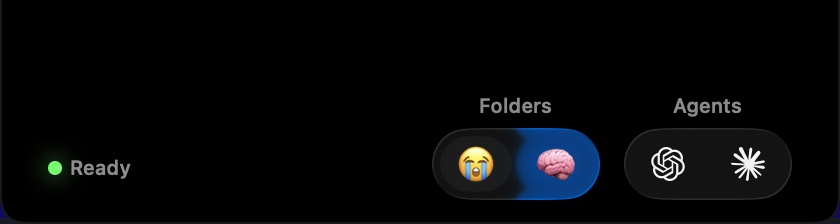
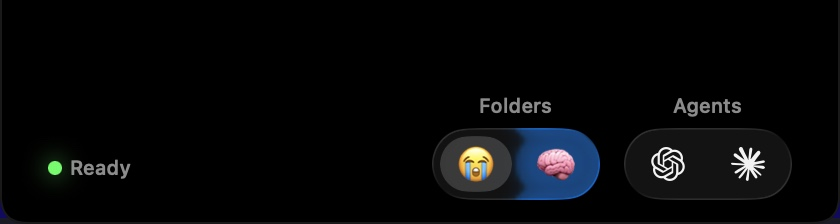
feat: brighten glass selection and hover

Changed region(s): [[0.5262, 0.5938, 0.619, 0.875]]

diff --git a/GhostNotch/UI/IslandIndicatorView.swift b/GhostNotch/UI/IslandIndicatorView.swift
@@ -199,14 +199,18 @@ struct IslandIndicatorView: View {
         if usesOpaqueGlass {
             Color.clear
                 .glassEffect(
-                    .regular.tint(Color(nsColor: .systemBlue)),
+                    .regular.tint(directorySelectionColor),
                     in: Capsule()
                 )
                 .clipShape(Capsule())
         } else {
             Capsule()
-                .fill(Color(nsColor: .systemBlue))
+                .fill(directorySelectionColor)
         }
+    }
+
+    private var directorySelectionColor: Color {
+        Color(nsColor: .systemBlue).mix(with: .white, by: 0.18)
     }
 
     private var directorySelectionAnimation: Animation? {

diff --git a/GhostNotch/UI/IslandRootView.swift b/GhostNotch/UI/IslandRootView.swift
@@ -69,7 +69,10 @@ private struct NotchControlStyle: ViewModifier {
                             width: IslandMetrics.notchControlWidth - 4,
                             height: IslandMetrics.notchControlHeight - 4
                         )
-                        .glassEffect(.regular.interactive(), in: Capsule())
+                        .glassEffect(
+                            .regular.tint(.white.opacity(0.14)).interactive(),
+                            in: Capsule()
+                        )
                         .glassEffectTransition(.materialize)
                         .clipShape(Capsule())
                 }

diff --git a/docs/ui-polish-research.md b/docs/ui-polish-research.md
@@ -166,14 +166,15 @@ assets, layout measurements, or product-specific animation choreography.
 - Give folders, agents, and expanded actions one persistent native
   `glassEffect(.regular.interactive(), in: Capsule())` surface per group. Keep
   inner actions plain at rest and materialize a centered 36-by-28-point native
-  `glassEffect` subcapsule on pointer hover. Render the selected folder as one
-  40-by-32-point `NSColor.systemBlue` content layer beneath the outer folder
-  glass so native refraction can reach sibling folder segments without
-  reaching the separate Agents capsule. Move it with a 0.18-second `snappy`
-  spring and fade it in or out over 0.12 seconds. Reduce Motion removes the
-  translation and uses a 0.08-second fade; Reduce Transparency replaces the
-  hidden backing with an exact-size native tinted glass segment. Do not apply
-  glass to the black shell, terminal canvas, status mark, or Settings form.
+  `glassEffect` subcapsule with a 14% white tint on pointer hover. Render the
+  selected folder as one 40-by-32-point `NSColor.systemBlue` content layer
+  mixed 18% toward white beneath the outer folder glass so native refraction
+  can reach sibling folder segments without reaching the separate Agents
+  capsule. Move it with a 0.18-second `snappy` spring and fade it in or out over
+  0.12 seconds. Reduce Motion removes the translation and uses a 0.08-second
+  fade; Reduce Transparency replaces the hidden backing with an exact-size
+  native tinted glass segment using the same brighter blue. Do not apply glass
+  to the black shell, terminal canvas, status mark, or Settings form.
 - Let macOS own glass focus, hover, press, Reduce Transparency, and Increase
   Contrast rendering. Add no imitation glass fill, stroke, blur, or material.
   Activate the hover panel on pointer entry so macOS renders genuine focused

diff --git a/docs/ui-polish-sprint-tracking.md b/docs/ui-polish-sprint-tracking.md
@@ -113,8 +113,9 @@ Depends on: Track 1
 - [x] Use 40-by-32-point quick-launch segments with a two-point outer capsule
   inset. Keep 8 points from status to controls, 12 points between folder and
   agent groups, and the existing 24-point horizontal/12-point bottom padding.
-  Keep every native hover/press subcapsule centered at 36 by 28 points so it
-  remains inside the outer capsule while preserving the full click target.
+  Keep every native hover/press subcapsule centered at 36 by 28 points with a
+  14% white tint so it remains visible inside the outer capsule while
+  preserving the full click target.
 - [x] Add `Folders` and `Agents` secondary `caption2` labels four points above
   two separate native outer glass capsules. Hide the folder label and capsule
   when there are no valid presets.
@@ -123,9 +124,10 @@ Depends on: Track 1
 - [x] Add clear hover, pressed, selected, disabled, and keyboard-focus states
   without changing actions or selection behavior. Use exact-size native inner
   glass only for hover/press. Put the selected folder's 40-by-32-point system
-  blue backing beneath the persistent outer glass so native refraction reaches
-  only sibling folder segments; use an exact-size native tinted segment when
-  Reduce Transparency is enabled. Add no imitation glass surface or outline.
+  blue backing, mixed 18% toward white, beneath the persistent outer glass so
+  native refraction reaches only sibling folder segments; use the same brighter
+  blue in an exact-size native tinted segment when Reduce Transparency is
+  enabled. Add no imitation glass surface or outline.
 - [x] Keep the opaque black shell and apply semantic label/symbol colors.
 - [x] Let native Liquid Glass respond to Reduce Transparency and Increase
   Contrast. Use semantic foregrounds and native focus/hover/press treatments;
